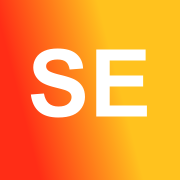
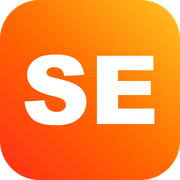
Make site installable as a PWA + add floating WhatsApp button
- Add service worker (sw.js): network-first pages, cache-first assets, skips video
- Expand manifest: 192/512 + maskable icons, id/scope, app shortcuts (WhatsApp, Residential, Commercial)
- Regenerate crisp app icons (192, 512, maskable) from the SE logo
- js/pwa.js: register SW, handle install prompt (Android/desktop) + iOS 'Add to Home Screen' hint
- Floating WhatsApp FAB -> wa.me/919829641110 (prefilled message) on every page
- Floating 'Install App' button shown when the browser allows install
- Bump style.css cache version to v=25

diff --git a/css/style.css b/css/style.css
@@ -462,3 +462,40 @@ p{margin:0}
 .sup-foot__in{display:flex;justify-content:space-between;gap:14px;flex-wrap:wrap}
 .sup-foot a:hover{color:var(--gold)}
 @media (max-width:820px){.sup__wrap{grid-template-columns:1fr;gap:36px}}
+
+/* ============ PWA: floating WhatsApp + Install ============ */
+.wa-fab{position:fixed;right:clamp(16px,3vw,26px);bottom:calc(clamp(16px,3vw,26px) + env(safe-area-inset-bottom,0px));
+  z-index:900;display:inline-flex;align-items:center;gap:0;height:58px;border-radius:999px;
+  background:#25d366;color:#fff;text-decoration:none;padding:0 15px;
+  box-shadow:0 12px 30px rgba(9,124,60,.34),0 3px 8px rgba(0,0,0,.16);
+  transition:transform .28s var(--ease),box-shadow .28s var(--ease),gap .28s var(--ease),padding .28s var(--ease)}
+.wa-fab svg{width:30px;height:30px;flex:0 0 auto;display:block}
+.wa-fab__label{max-width:0;overflow:hidden;white-space:nowrap;font-family:var(--sans);font-weight:600;
+  font-size:15px;letter-spacing:-.01em;opacity:0;transition:max-width .3s var(--ease),opacity .25s var(--ease),margin .3s var(--ease)}
+.wa-fab::after{content:"";position:absolute;inset:0;border-radius:999px;box-shadow:0 0 0 0 rgba(37,211,102,.55);
+  animation:waPulse 2.6s var(--ease) infinite;z-index:-1}
+@media (hover:hover){
+  .wa-fab:hover{transform:translateY(-3px);box-shadow:0 18px 40px rgba(9,124,60,.42),0 5px 12px rgba(0,0,0,.2)}
+  .wa-fab:hover .wa-fab__label{max-width:180px;opacity:1;margin-left:10px;margin-right:4px}
+}
+@keyframes waPulse{0%{box-shadow:0 0 0 0 rgba(37,211,102,.5)}70%{box-shadow:0 0 0 16px rgba(37,211,102,0)}100%{box-shadow:0 0 0 0 rgba(37,211,102,0)}}
+
+.pwa-install{position:fixed;left:clamp(16px,3vw,26px);bottom:calc(clamp(16px,3vw,26px) + env(safe-area-inset-bottom,0px));
+  z-index:900;display:inline-flex;align-items:center;gap:9px;height:48px;padding:0 18px;border:0;cursor:pointer;
+  border-radius:999px;background:var(--flame);color:#fff;font-family:var(--sans);font-weight:600;font-size:14px;letter-spacing:-.01em;
+  box-shadow:0 12px 30px rgba(214,63,22,.32),0 3px 8px rgba(0,0,0,.16);
+  transform:translateY(14px);opacity:0;pointer-events:none;transition:transform .35s var(--ease),opacity .35s var(--ease),box-shadow .28s var(--ease)}
+.pwa-install svg{width:19px;height:19px;flex:0 0 auto}
+.pwa-install.show{transform:translateY(0);opacity:1;pointer-events:auto}
+@media (hover:hover){.pwa-install:hover{transform:translateY(-3px);box-shadow:0 18px 40px rgba(214,63,22,.4)}}
+@media (max-width:560px){.pwa-install{height:44px;font-size:13px;padding:0 15px}.wa-fab{height:54px}.wa-fab svg{width:28px;height:28px}}
+@media (prefers-reduced-motion:reduce){.wa-fab::after{animation:none}.wa-fab,.pwa-install{transition:none}}
+
+/* iOS install hint sheet */
+.ios-hint{position:fixed;left:50%;bottom:20px;transform:translateX(-50%) translateY(20px);z-index:950;
+  max-width:min(360px,92vw);background:var(--dark);color:#fff;border-radius:16px;padding:16px 18px;
+  box-shadow:0 20px 50px rgba(0,0,0,.4);font-family:var(--sans);font-size:14px;line-height:1.5;opacity:0;
+  pointer-events:none;transition:opacity .3s var(--ease),transform .3s var(--ease)}
+.ios-hint.show{opacity:1;transform:translateX(-50%) translateY(0);pointer-events:auto}
+.ios-hint b{color:var(--gold)}
+.ios-hint button{margin-top:10px;background:rgba(255,255,255,.14);color:#fff;border:0;border-radius:9px;padding:7px 13px;font:inherit;font-weight:600;cursor:pointer}

diff --git a/index.html b/index.html
@@ -40,7 +40,7 @@
 <link rel="preconnect" href="https://fonts.gstatic.com" crossorigin>
 <link href="https://fonts.googleapis.com/css2?family=Fraunces:opsz,wght@9..144,400;9..144,500;9..144,600&family=Inter:wght@400;500;600&family=Space+Grotesk:wght@400;500;600&display=swap" rel="stylesheet">
 <link rel="stylesheet" href="https://cdn.jsdelivr.net/npm/swiper@11/swiper-bundle.min.css">
-<link rel="stylesheet" href="css/style.css?v=24">
+<link rel="stylesheet" href="css/style.css?v=25">
 </head>
 <body>
 <div class="grain" aria-hidden="true"></div>
@@ -397,5 +397,20 @@
 <script src="https://cdn.jsdelivr.net/npm/lenis@1.1.14/dist/lenis.min.js"></script>
 <script src="https://cdn.jsdelivr.net/npm/swiper@11/swiper-bundle.min.js"></script>
 <script src="js/main.js?v=9"></script>
+<!-- PWA-FLOAT-START -->
+<a class="wa-fab" href="https://wa.me/919829641110?text=Hi%20Solar%20Energy%20Enterprises%2C%20I%20want%20a%20free%20solar%20consultation." target="_blank" rel="noopener" aria-label="Chat with us on WhatsApp">
+  <svg viewBox="0 0 24 24" aria-hidden="true" focusable="false"><path fill="currentColor" d="M12.04 2C6.58 2 2.13 6.45 2.13 11.91c0 2.1.55 4.15 1.6 5.96L2 22l4.25-1.11c1.75.95 3.71 1.45 5.79 1.45h.01c5.46 0 9.91-4.45 9.91-9.91 0-2.65-1.03-5.14-2.9-7.01A9.82 9.82 0 0 0 12.04 2m0 1.67c2.2 0 4.27.86 5.82 2.42a8.18 8.18 0 0 1 2.42 5.82c0 4.54-3.7 8.23-8.24 8.23-1.85 0-3.66-.5-5.24-1.44l-.38-.22-2.52.66.67-2.46-.24-.39a8.18 8.18 0 0 1-1.26-4.38c0-4.54 3.7-8.24 8.25-8.24m4.71 10.4c-.26-.13-1.53-.75-1.76-.84-.24-.09-.41-.13-.58.13-.17.26-.67.84-.82 1.01-.15.17-.3.2-.56.07-.26-.13-1.1-.4-2.09-1.29-.77-.69-1.29-1.53-1.44-1.79-.15-.26-.02-.4.11-.53.12-.12.26-.3.39-.46.13-.15.17-.26.26-.43.09-.17.04-.32-.02-.46-.06-.13-.58-1.4-.8-1.92-.21-.5-.42-.43-.58-.44l-.49-.01c-.17 0-.46.06-.7.32-.24.26-.92.9-.92 2.2 0 1.3.94 2.55 1.07 2.73.13.17 1.85 2.82 4.48 3.96.63.27 1.11.43 1.49.55.63.2 1.2.17 1.65.1.5-.07 1.53-.62 1.75-1.23.22-.6.22-1.12.15-1.23-.06-.11-.24-.17-.5-.3"/></svg>
+  <span class="wa-fab__label">Chat with us</span>
+</a>
+<button class="pwa-install" type="button" aria-label="Install Solar Energy Enterprises app">
+  <svg viewBox="0 0 24 24" aria-hidden="true" focusable="false"><path d="M12 3v11m0 0 4-4m-4 4-4-4" fill="none" stroke="currentColor" stroke-width="2" stroke-linecap="round" stroke-linejoin="round"/><path d="M4 16v3a2 2 0 0 0 2 2h12a2 2 0 0 0 2-2v-3" fill="none" stroke="currentColor" stroke-width="2" stroke-linecap="round" stroke-linejoin="round"/></svg>
+  <span>Install App</span>
+</button>
+<div class="ios-hint" role="dialog" aria-live="polite">
+  Install this app: tap the <b>Share</b> icon in Safari, then choose <b>&ldquo;Add to Home Screen.&rdquo;</b>
+  <div><button type="button">Got it</button></div>
+</div>
+<script src="/js/pwa.js?v=1"></script>
+<!-- PWA-FLOAT-END -->
 </body>
 </html>

diff --git a/commercial.html b/commercial.html
@@ -36,7 +36,7 @@
 <link rel="preconnect" href="https://fonts.googleapis.com">
 <link rel="preconnect" href="https://fonts.gstatic.com" crossorigin>
 <link href="https://fonts.googleapis.com/css2?family=Fraunces:opsz,wght@9..144,400;9..144,500;9..144,600&family=Inter:wght@400;500;600&family=Space+Grotesk:wght@400;500;600&display=swap" rel="stylesheet">
-<link rel="stylesheet" href="css/style.css?v=18">
+<link rel="stylesheet" href="css/style.css?v=25">
 </head>
 <body>
 <div class="grain" aria-hidden="true"></div>
@@ -227,5 +227,20 @@
 <script src="https://cdnjs.cloudflare.com/ajax/libs/gsap/3.12.5/ScrollTrigger.min.js"></script>
 <script src="https://cdn.jsdelivr.net/npm/lenis@1.1.14/dist/lenis.min.js"></script>
 <script src="js/main.js?v=9"></script>
+<!-- PWA-FLOAT-START -->
+<a class="wa-fab" href="https://wa.me/919829641110?text=Hi%20Solar%20Energy%20Enterprises%2C%20I%20want%20a%20free%20solar%20consultation." target="_blank" rel="noopener" aria-label="Chat with us on WhatsApp">
+  <svg viewBox="0 0 24 24" aria-hidden="true" focusable="false"><path fill="currentColor" d="M12.04 2C6.58 2 2.13 6.45 2.13 11.91c0 2.1.55 4.15 1.6 5.96L2 22l4.25-1.11c1.75.95 3.71 1.45 5.79 1.45h.01c5.46 0 9.91-4.45 9.91-9.91 0-2.65-1.03-5.14-2.9-7.01A9.82 9.82 0 0 0 12.04 2m0 1.67c2.2 0 4.27.86 5.82 2.42a8.18 8.18 0 0 1 2.42 5.82c0 4.54-3.7 8.23-8.24 8.23-1.85 0-3.66-.5-5.24-1.44l-.38-.22-2.52.66.67-2.46-.24-.39a8.18 8.18 0 0 1-1.26-4.38c0-4.54 3.7-8.24 8.25-8.24m4.71 10.4c-.26-.13-1.53-.75-1.76-.84-.24-.09-.41-.13-.58.13-.17.26-.67.84-.82 1.01-.15.17-.3.2-.56.07-.26-.13-1.1-.4-2.09-1.29-.77-.69-1.29-1.53-1.44-1.79-.15-.26-.02-.4.11-.53.12-.12.26-.3.39-.46.13-.15.17-.26.26-.43.09-.17.04-.32-.02-.46-.06-.13-.58-1.4-.8-1.92-.21-.5-.42-.43-.58-.44l-.49-.01c-.17 0-.46.06-.7.32-.24.26-.92.9-.92 2.2 0 1.3.94 2.55 1.07 2.73.13.17 1.85 2.82 4.48 3.96.63.27 1.11.43 1.49.55.63.2 1.2.17 1.65.1.5-.07 1.53-.62 1.75-1.23.22-.6.22-1.12.15-1.23-.06-.11-.24-.17-.5-.3"/></svg>
+  <span class="wa-fab__label">Chat with us</span>
+</a>
+<button class="pwa-install" type="button" aria-label="Install Solar Energy Enterprises app">
+  <svg viewBox="0 0 24 24" aria-hidden="true" focusable="false"><path d="M12 3v11m0 0 4-4m-4 4-4-4" fill="none" stroke="currentColor" stroke-width="2" stroke-linecap="round" stroke-linejoin="round"/><path d="M4 16v3a2 2 0 0 0 2 2h12a2 2 0 0 0 2-2v-3" fill="none" stroke="currentColor" stroke-width="2" stroke-linecap="round" stroke-linejoin="round"/></svg>
+  <span>Install App</span>
+</button>
+<div class="ios-hint" role="dialog" aria-live="polite">
+  Install this app: tap the <b>Share</b> icon in Safari, then choose <b>&ldquo;Add to Home Screen.&rdquo;</b>
+  <div><button type="button">Got it</button></div>
+</div>
+<script src="/js/pwa.js?v=1"></script>
+<!-- PWA-FLOAT-END -->
 </body>
 </html>

diff --git a/residential.html b/residential.html
@@ -36,7 +36,7 @@
 <link rel="preconnect" href="https://fonts.googleapis.com">
 <link rel="preconnect" href="https://fonts.gstatic.com" crossorigin>
 <link href="https://fonts.googleapis.com/css2?family=Fraunces:opsz,wght@9..144,400;9..144,500;9..144,600&family=Inter:wght@400;500;600&family=Space+Grotesk:wght@400;500;600&display=swap" rel="stylesheet">
-<link rel="stylesheet" href="css/style.css?v=18">
+<link rel="stylesheet" href="css/style.css?v=25">
 </head>
 <body>
 <div class="grain" aria-hidden="true"></div>
@@ -210,5 +210,20 @@
 <script src="https://cdnjs.cloudflare.com/ajax/libs/gsap/3.12.5/ScrollTrigger.min.js"></script>
 <script src="https://cdn.jsdelivr.net/npm/lenis@1.1.14/dist/lenis.min.js"></script>
 <script src="js/main.js?v=9"></script>
+<!-- PWA-FLOAT-START -->
+<a class="wa-fab" href="https://wa.me/919829641110?text=Hi%20Solar%20Energy%20Enterprises%2C%20I%20want%20a%20free%20solar%20consultation." target="_blank" rel="noopener" aria-label="Chat with us on WhatsApp">
+  <svg viewBox="0 0 24 24" aria-hidden="true" focusable="false"><path fill="currentColor" d="M12.04 2C6.58 2 2.13 6.45 2.13 11.91c0 2.1.55 4.15 1.6 5.96L2 22l4.25-1.11c1.75.95 3.71 1.45 5.79 1.45h.01c5.46 0 9.91-4.45 9.91-9.91 0-2.65-1.03-5.14-2.9-7.01A9.82 9.82 0 0 0 12.04 2m0 1.67c2.2 0 4.27.86 5.82 2.42a8.18 8.18 0 0 1 2.42 5.82c0 4.54-3.7 8.23-8.24 8.23-1.85 0-3.66-.5-5.24-1.44l-.38-.22-2.52.66.67-2.46-.24-.39a8.18 8.18 0 0 1-1.26-4.38c0-4.54 3.7-8.24 8.25-8.24m4.71 10.4c-.26-.13-1.53-.75-1.76-.84-.24-.09-.41-.13-.58.13-.17.26-.67.84-.82 1.01-.15.17-.3.2-.56.07-.26-.13-1.1-.4-2.09-1.29-.77-.69-1.29-1.53-1.44-1.79-.15-.26-.02-.4.11-.53.12-.12.26-.3.39-.46.13-.15.17-.26.26-.43.09-.17.04-.32-.02-.46-.06-.13-.58-1.4-.8-1.92-.21-.5-.42-.43-.58-.44l-.49-.01c-.17 0-.46.06-.7.32-.24.26-.92.9-.92 2.2 0 1.3.94 2.55 1.07 2.73.13.17 1.85 2.82 4.48 3.96.63.27 1.11.43 1.49.55.63.2 1.2.17 1.65.1.5-.07 1.53-.62 1.75-1.23.22-.6.22-1.12.15-1.23-.06-.11-.24-.17-.5-.3"/></svg>
+  <span class="wa-fab__label">Chat with us</span>
+</a>
+<button class="pwa-install" type="button" aria-label="Install Solar Energy Enterprises app">
+  <svg viewBox="0 0 24 24" aria-hidden="true" focusable="false"><path d="M12 3v11m0 0 4-4m-4 4-4-4" fill="none" stroke="currentColor" stroke-width="2" stroke-linecap="round" stroke-linejoin="round"/><path d="M4 16v3a2 2 0 0 0 2 2h12a2 2 0 0 0 2-2v-3" fill="none" stroke="currentColor" stroke-width="2" stroke-linecap="round" stroke-linejoin="round"/></svg>
+  <span>Install App</span>
+</button>
+<div class="ios-hint" role="dialog" aria-live="polite">
+  Install this app: tap the <b>Share</b> icon in Safari, then choose <b>&ldquo;Add to Home Screen.&rdquo;</b>
+  <div><button type="button">Got it</button></div>
+</div>
+<script src="/js/pwa.js?v=1"></script>
+<!-- PWA-FLOAT-END -->
 </body>
 </html>

diff --git a/sw.js b/sw.js
@@ -1,0 +1,91 @@
+/* Solar Energy Enterprises — service worker (PWA install + light offline) */
+const VERSION = 'see-v1';
+const STATIC_CACHE = 'static-' + VERSION;
+const PAGE_CACHE = 'pages-' + VERSION;
+
+/* App shell — precached so the app opens even offline */
+const PRECACHE = [
+  '/',
+  '/index.html',
+  '/residential.html',
+  '/commercial.html',
+  '/css/style.css?v=24',
+  '/js/main.js?v=9',
+  '/favicon.svg',
+  '/assets/img/icon-192.png',
+  '/assets/img/icon-512.png',
+  '/site.webmanifest'
+];
+
+self.addEventListener('install', (event) => {
+  event.waitUntil(
+    caches.open(STATIC_CACHE)
+      .then((cache) => cache.addAll(PRECACHE).catch(() => {}))
+      .then(() => self.skipWaiting())
+  );
+});
+
+self.addEventListener('activate', (event) => {
+  event.waitUntil(
+    caches.keys().then((keys) => Promise.all(
+      keys.filter((k) => k !== STATIC_CACHE && k !== PAGE_CACHE)
+          .map((k) => caches.delete(k))
+    )).then(() => self.clients.claim())
+  );
+});
+
+self.addEventListener('fetch', (event) => {
+  const req = event.request;
+  if (req.method !== 'GET') return;
+
+  const url = new URL(req.url);
+  const sameOrigin = url.origin === self.location.origin;
+
+  /* Never cache video — too large; always go to network */
+  if (req.destination === 'video' || /\.(mp4|webm|mov)$/i.test(url.pathname)) return;
+
+  /* Page navigations: network-first, fall back to cache, then offline shell */
+  if (req.mode === 'navigate' || req.destination === 'document') {
+    event.respondWith(
+      fetch(req)
+        .then((res) => {
+          const copy = res.clone();
+          caches.open(PAGE_CACHE).then((c) => c.put(req, copy));
+          return res;
+        })
+        .catch(() => caches.match(req).then((r) => r || caches.match('/index.html')))
+    );
+    return;
+  }
+
+  /* Same-origin static assets (css/js/img/fonts): cache-first, then update */
+  if (sameOrigin) {
+    event.respondWith(
+      caches.match(req).then((cached) => {
+        const network = fetch(req).then((res) => {
+          if (res && res.status === 200) {
+            const copy = res.clone();
+            caches.open(STATIC_CACHE).then((c) => c.put(req, copy));
+          }
+          return res;
+        }).catch(() => cached);
+        return cached || network;
+      })
+    );
+    return;
+  }
+
+  /* Cross-origin (Google Fonts, Swiper CDN): stale-while-revalidate */
+  event.respondWith(
+    caches.match(req).then((cached) => {
+      const network = fetch(req).then((res) => {
+        if (res && (res.status === 200 || res.type === 'opaque')) {
+          const copy = res.clone();
+          caches.open(STATIC_CACHE).then((c) => c.put(req, copy));
+        }
+        return res;
+      }).catch(() => cached);
+      return cached || network;
+    })
+  );
+});

diff --git a/support.html b/support.html
@@ -16,7 +16,7 @@
 <link rel="preconnect" href="https://fonts.googleapis.com">
 <link rel="preconnect" href="https://fonts.gstatic.com" crossorigin>
 <link href="https://fonts.googleapis.com/css2?family=Fraunces:opsz,wght@9..144,400;9..144,500;9..144,600&family=Inter:wght@400;500;600&family=Space+Grotesk:wght@400;500;600&display=swap" rel="stylesheet">
-<link rel="stylesheet" href="css/style.css?v=19">
+<link rel="stylesheet" href="css/style.css?v=25">
 </head>
 <body>
 <div class="grain" aria-hidden="true"></div>
@@ -143,5 +143,20 @@
 
 <script src="https://accounts.google.com/gsi/client" async defer></script>
 <script src="js/support.js?v=2"></script>
+<!-- PWA-FLOAT-START -->
+<a class="wa-fab" href="https://wa.me/919829641110?text=Hi%20Solar%20Energy%20Enterprises%2C%20I%20want%20a%20free%20solar%20consultation." target="_blank" rel="noopener" aria-label="Chat with us on WhatsApp">
+  <svg viewBox="0 0 24 24" aria-hidden="true" focusable="false"><path fill="currentColor" d="M12.04 2C6.58 2 2.13 6.45 2.13 11.91c0 2.1.55 4.15 1.6 5.96L2 22l4.25-1.11c1.75.95 3.71 1.45 5.79 1.45h.01c5.46 0 9.91-4.45 9.91-9.91 0-2.65-1.03-5.14-2.9-7.01A9.82 9.82 0 0 0 12.04 2m0 1.67c2.2 0 4.27.86 5.82 2.42a8.18 8.18 0 0 1 2.42 5.82c0 4.54-3.7 8.23-8.24 8.23-1.85 0-3.66-.5-5.24-1.44l-.38-.22-2.52.66.67-2.46-.24-.39a8.18 8.18 0 0 1-1.26-4.38c0-4.54 3.7-8.24 8.25-8.24m4.71 10.4c-.26-.13-1.53-.75-1.76-.84-.24-.09-.41-.13-.58.13-.17.26-.67.84-.82 1.01-.15.17-.3.2-.56.07-.26-.13-1.1-.4-2.09-1.29-.77-.69-1.29-1.53-1.44-1.79-.15-.26-.02-.4.11-.53.12-.12.26-.3.39-.46.13-.15.17-.26.26-.43.09-.17.04-.32-.02-.46-.06-.13-.58-1.4-.8-1.92-.21-.5-.42-.43-.58-.44l-.49-.01c-.17 0-.46.06-.7.32-.24.26-.92.9-.92 2.2 0 1.3.94 2.55 1.07 2.73.13.17 1.85 2.82 4.48 3.96.63.27 1.11.43 1.49.55.63.2 1.2.17 1.65.1.5-.07 1.53-.62 1.75-1.23.22-.6.22-1.12.15-1.23-.06-.11-.24-.17-.5-.3"/></svg>
+  <span class="wa-fab__label">Chat with us</span>
+</a>
+<button class="pwa-install" type="button" aria-label="Install Solar Energy Enterprises app">
+  <svg viewBox="0 0 24 24" aria-hidden="true" focusable="false"><path d="M12 3v11m0 0 4-4m-4 4-4-4" fill="none" stroke="currentColor" stroke-width="2" stroke-linecap="round" stroke-linejoin="round"/><path d="M4 16v3a2 2 0 0 0 2 2h12a2 2 0 0 0 2-2v-3" fill="none" stroke="currentColor" stroke-width="2" stroke-linecap="round" stroke-linejoin="round"/></svg>
+  <span>Install App</span>
+</button>
+<div class="ios-hint" role="dialog" aria-live="polite">
+  Install this app: tap the <b>Share</b> icon in Safari, then choose <b>&ldquo;Add to Home Screen.&rdquo;</b>
+  <div><button type="button">Got it</button></div>
+</div>
+<script src="/js/pwa.js?v=1"></script>
+<!-- PWA-FLOAT-END -->
 </body>
 </html>

diff --git a/js/pwa.js b/js/pwa.js
@@ -1,0 +1,65 @@
+/* Solar Energy Enterprises — PWA: install prompt + service worker */
+(function () {
+  'use strict';
+
+  /* ---- register service worker ---- */
+  if ('serviceWorker' in navigator) {
+    window.addEventListener('load', function () {
+      navigator.serviceWorker.register('/sw.js').catch(function () {});
+    });
+  }
+
+  var installBtn = document.querySelector('.pwa-install');
+  var deferred = null;
+
+  var standalone = window.matchMedia('(display-mode: standalone)').matches ||
+    window.navigator.standalone === true;
+
+  /* Chrome/Edge/Android: capture the native prompt and reveal our button */
+  window.addEventListener('beforeinstallprompt', function (e) {
+    e.preventDefault();
+    deferred = e;
+    if (installBtn && !standalone) installBtn.classList.add('show');
+  });
+
+  if (installBtn) {
+    installBtn.addEventListener('click', function () {
+      if (deferred) {
+        deferred.prompt();
+        deferred.userChoice.then(function () {
+          deferred = null;
+          installBtn.classList.remove('show');
+        });
+      } else {
+        showIosHint();
+      }
+    });
+  }
+
+  window.addEventListener('appinstalled', function () {
+    deferred = null;
+    if (installBtn) installBtn.classList.remove('show');
+  });
+
+  /* ---- iOS Safari has no beforeinstallprompt: show a short how-to ---- */
+  var isIos = /iphone|ipad|ipod/i.test(navigator.userAgent);
+  var isSafari = isIos && !/crios|fxios|edgios/i.test(navigator.userAgent);
+
+  function showIosHint() {
+    var el = document.querySelector('.ios-hint');
+    if (!el) return;
+    el.classList.add('show');
+    setTimeout(function () { el.classList.remove('show'); }, 9000);
+  }
+
+  if (installBtn && isSafari && !standalone) {
+    installBtn.classList.add('show'); // let iOS users tap to see instructions
+  }
+
+  document.addEventListener('click', function (e) {
+    if (e.target && e.target.matches('.ios-hint button')) {
+      var el = e.target.closest('.ios-hint');
+      if (el) el.classList.remove('show');
+    }
+  });
+})();
